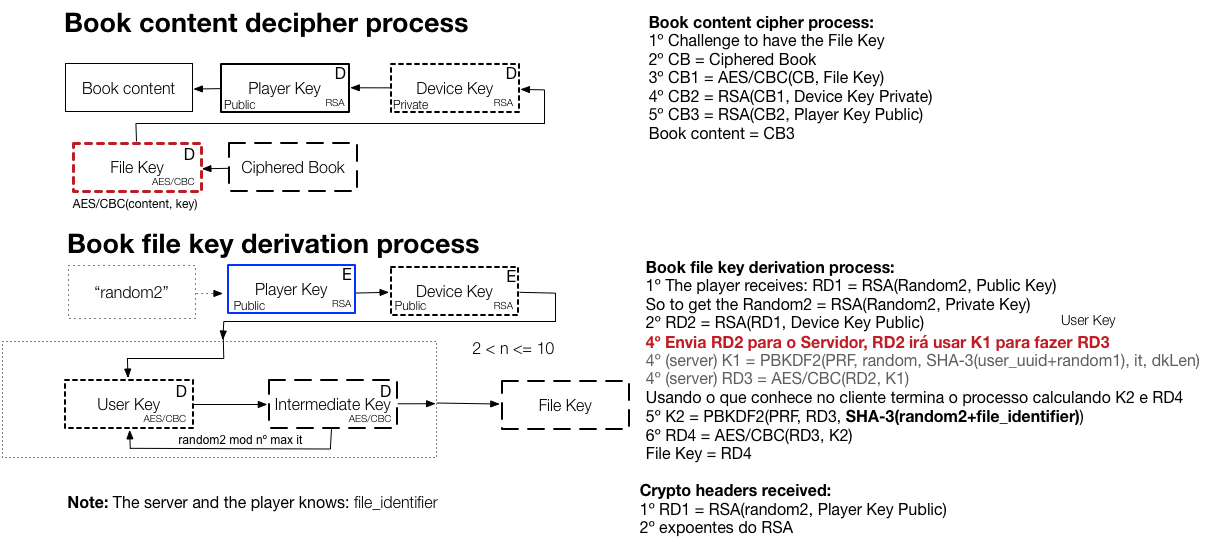
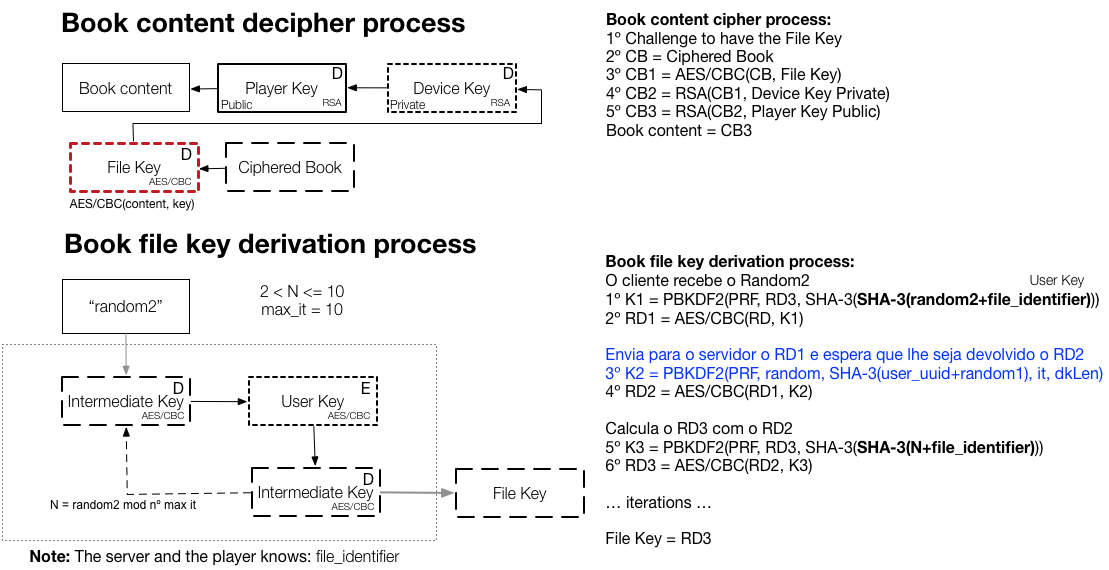
file key generated at the server

diff --git a/src/m1/iedcs-server/security/functions.py b/src/m1/iedcs-server/security/functions.py
@@ -1,7 +1,7 @@
 from .models import ContentCiphered
 import hashlib
-import struct
 from .aescipher import AESCipher, Random
+from pbkdf2 import PBKDF2
 
 # max iterations for the file derivation process
 max_iterations = 10
@@ -11,42 +11,67 @@ def encrypt_book_content(book, user):
     book_content = book.original_file.read().decode('utf-8')
 
     # get or set the random 2
-    random2 = get_database_content_by_user_and_book("random2", user, book)
+    exists = exists_database_content_by_user_and_book("random2", user, book)
 
-    if random2 == False:
+    if not exists:
         random2 = Random.new().read(16)
         random2 = hashlib.sha224(random2).hexdigest()
         store_database_content_by_user_and_book("random2", random2, user, book)
+    else:
+        random2 = get_database_content_by_user_and_book("random2", user, book)
 
     # get or set the random 1
-    random1 = get_database_content_by_user_and_book("random1", user, book)
-
-    if random1 == False:
+    if not exists_database_content_by_user_and_book("random1", user, book):
         random1 = Random.new().read(16)
-        random1 = hashlib.sha224(random2).hexdigest()
+        random1 = hashlib.sha224(random1).hexdigest()
         store_database_content_by_user_and_book("random1", random1, user, book)
+    else:
+        random1 = get_database_content_by_user_and_book("random1", user, book)
 
-    # calculating the n for the iterations
-    n = struct.unpack("<L", random2)[0]
-    n = divmod(n, max_iterations)
+    # calculating the n for the iterationss = "ABCD"
+    number = reduce(lambda x, y: x + y, [int(c) for c in random2 if c.isdigit()], 0)
+    n = divmod(number, max_iterations)
 
+    rd3 = random2
     # calculating the file key
-    # rsa with player key private
+    for i in range(0, n[1]):
+        # k1 = PBKDF2(sha224(user.username + "fcp" + book.identifier), random2)
+        k1 = PBKDF2(hashlib.sha224(user.username + "fcp" + book.identifier).hexdigest(), random2).read(32)
 
+        # rd1 = AES/CBC(rd, k1)
+        rd1 = AESCipher.encrypt(rd3, k1)
 
-    # rsa with device key public
+        # k2 = PBKDF2(sha224(user.username + "deti" + random1), random1)
+        k2 = PBKDF2(hashlib.sha224(user.username + "deti" + random1).hexdigest(), random1).read(32)
 
-    # pbkdf2 ...
+        # rd2 = AES/CBC(rd1, k2)
+        rd2 = AESCipher.decrypt(rd1, k2)
+
+        # k3 = PBKDF2(hashlib.sha224(n + "ua" + book.identifier), random2)
+        k3 = PBKDF2(hashlib.sha224(str(n) + "ua" + book.identifier).hexdigest(), random2).read(32)
+
+        # rd3 = AES/CBC(rd2, k3)
+        rd3 = AESCipher.encrypt(rd2, k3)
+
+    file_key = rd3
+
+    print file_key
 
     return book_content
 
 
+def exists_database_content_by_user_and_book(alias, user, book):
+    identifier = hashlib.sha224(alias+user.username+book.identifier).hexdigest()
+    return ContentCiphered.objects.filter(identifier=identifier).count()
+
+
 def get_database_content_by_user_and_book(alias, user, book):
-    identifier = hashlib.sha224(alias+user.username+book.identifier)
-    key = hashlib.sha224(user.username+user.email+user.last_name)
+    identifier = hashlib.sha224(alias+user.username+book.identifier).hexdigest()
+    c = hashlib.sha224(user.username+user.email+user.last_name).hexdigest()
 
     if ContentCiphered.objects.filter(identifier=identifier).count() == 1:
         content_ciphered = ContentCiphered.objects.first()
+        key = PBKDF2(c, identifier).read(32)
         content = AESCipher.decrypt(content_ciphered=content_ciphered.content, key=key)
         return content
 
@@ -54,11 +79,12 @@ def get_database_content_by_user_and_book(alias, user, book):
 
 
 def get_database_content_by_user(alias, user):
-    identifier = hashlib.sha224(alias+user.username)
-    key = hashlib.sha224(user.username+user.email+user.last_name)
+    identifier = hashlib.sha224(alias+user.username).hexdigest()
+    c = hashlib.sha224(user.username+user.email+user.last_name).hexdigest()
 
     if ContentCiphered.objects.filter(identifier=identifier).count() == 1:
         content_ciphered = ContentCiphered.objects.first()
+        key = PBKDF2(c, identifier).read(32)
         content = AESCipher.decrypt(content_ciphered=content_ciphered.content, key=key)
         return content
 
@@ -66,14 +92,16 @@ def get_database_content_by_user(alias, user):
 
 
 def store_database_content_by_user_and_book(alias, content, user, book):
-    identifier = hashlib.sha224(alias+user.username+book.identifier)
-    key = hashlib.sha224(user.username+user.email+user.last_name)
+    identifier = hashlib.sha224(alias+user.username+book.identifier).hexdigest()
+    c = hashlib.sha224(user.username+user.email+user.last_name).hexdigest()
+    key = PBKDF2(c, identifier).read(32)
     content = AESCipher.encrypt(content=content, key=key)
     ContentCiphered.objects.create(identifier=identifier, content=content)
 
 
 def store_database_content_by_user(alias, content, user):
-    identifier = hashlib.sha224(alias+user.username)
-    key = hashlib.sha224(user.username+user.email+user.last_name)
+    identifier = hashlib.sha224(alias+user.username).hexdigest()
+    c = hashlib.sha224(user.username+user.email+user.last_name).hexdigest()
+    key = PBKDF2(c, identifier).read(32)
     content = AESCipher.encrypt(content=content, key=key)
     ContentCiphered.objects.create(identifier=identifier, content=content)

diff --git a/src/m1/iedcs-server/security/tests.py b/src/m1/iedcs-server/security/tests.py
@@ -1,4 +1,5 @@
 from django.test import TestCase
+from aescipher import AESCipher
 
 
 class SecurityTestCase(TestCase):
@@ -6,4 +7,7 @@ class SecurityTestCase(TestCase):
         pass
 
     def test_books(self):
-        pass
+        # AES encrypt and decrypt
+        key = "asgadgdsgdsgsdgsdvsdvwelkdsgkjjs"
+        c1 = AESCipher.encrypt("teste", key)
+        self.assertEqual(AESCipher.decrypt(c1, key), "teste")

diff --git a/src/m1/iedcs-server/security/aescipher.py b/src/m1/iedcs-server/security/aescipher.py
@@ -2,6 +2,7 @@ import base64
 from Crypto import Random
 from Crypto.Cipher import AES
 
+
 class AESCipher(object):
     bs = 32
 
